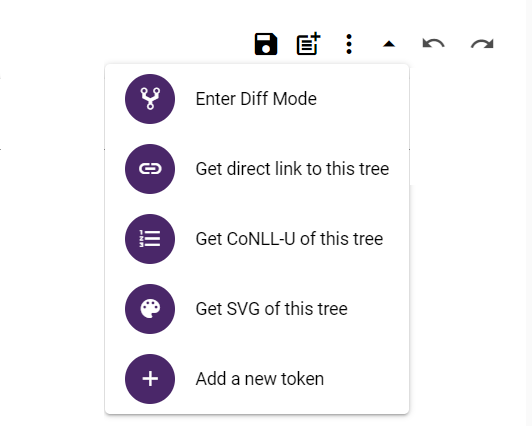
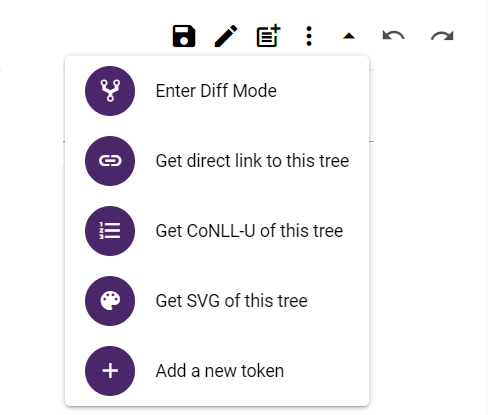
add edit tokens option

diff --git a/README.md b/README.md
@@ -136,11 +136,13 @@ There is a toolbar located on the top  left of the document area. From it the us
 
 - Each time a change is made in the tree (e.g. new annotation or relation added), yellow diskette will appear to indicate there are changes to **save**. Click on the **Save button** to **save** the changes. 
 
+- You can edit,remove or split tokens either by selecting the sentence or using the edit icon.
+
 - You can edit the meta data related to the sentence. 
 
 - You have also the possibility to get a direct `link`, `SVG` file and `CONLL` of the tree.
 
-- You can add a new token to the tree. Besides that, you can undo and redo changes.
+
 
 
 <div style="text-align:center">
